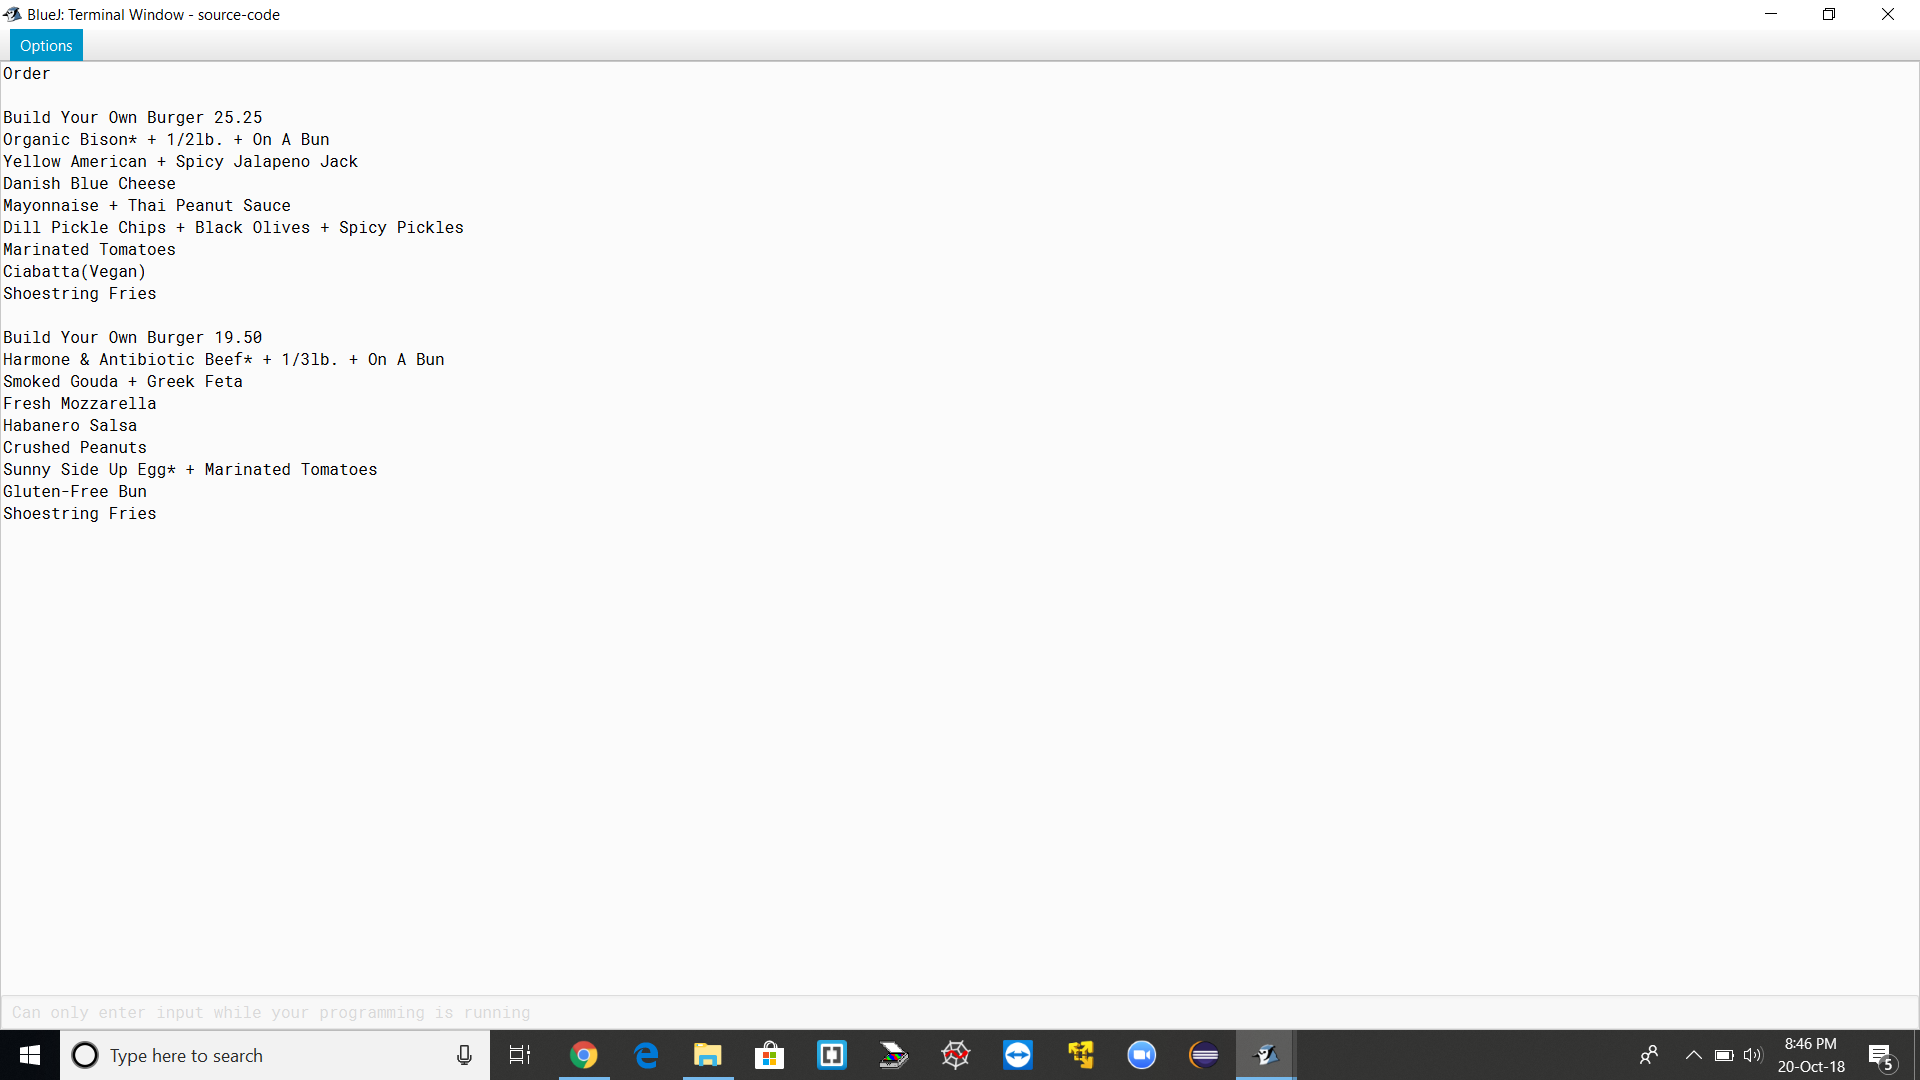
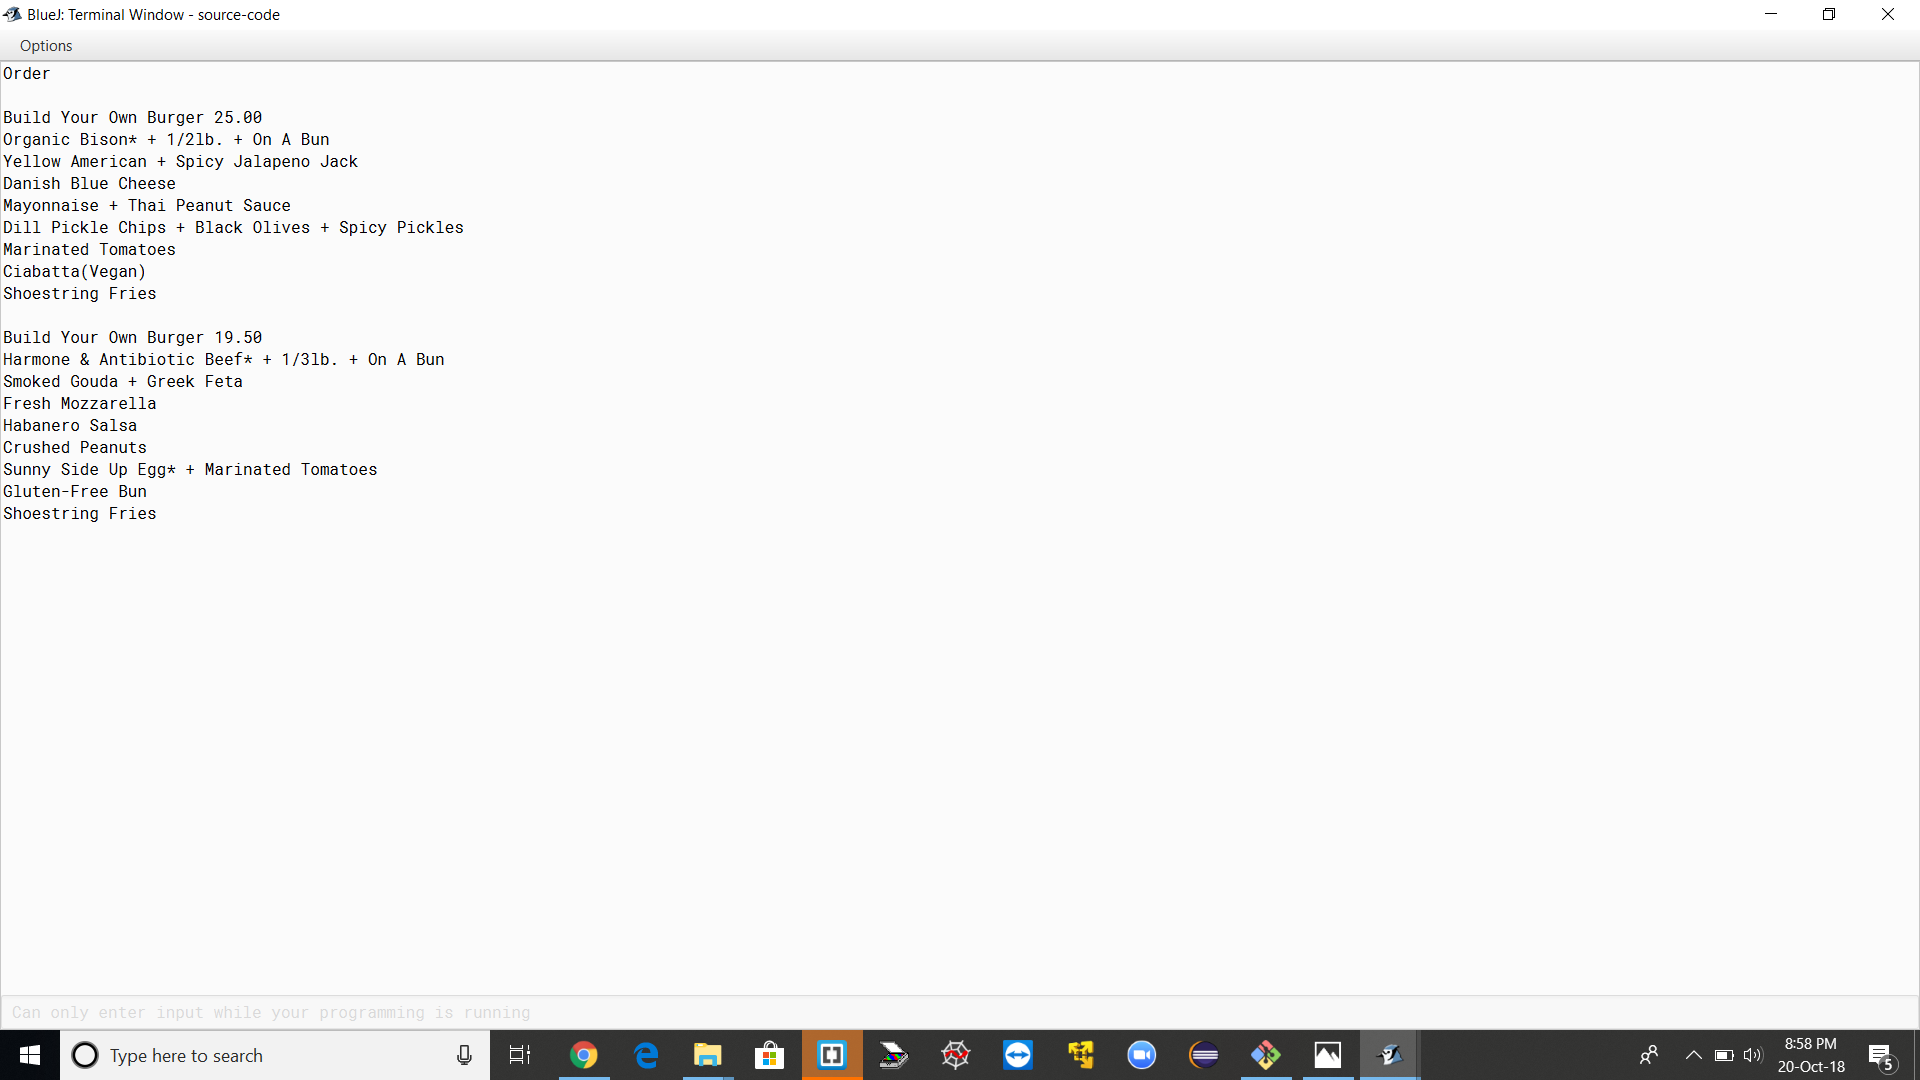
sauce price updated and new output added

Changed region(s): [[0.625, 0.9472, 0.75, 1.0], [0.4062, 0.9472, 0.4688, 1.0], [0.0, 0.0, 0.0625, 0.0611]]

diff --git a/lab7/counter-burger/source-code/Sauce.java b/lab7/counter-burger/source-code/Sauce.java
@@ -8,12 +8,12 @@ public class Sauce extends LeafDecorator
         super(d) ;
     }
     
-    // 1 sauce free, extra +.75
+    // 1 sauce free, extra +.5
     public void setOptions( String[] options )
     {
         this.options = options ;
         if ( options.length > 1 )
-            this.price += (options.length-1) * 0.75 ;
+            this.price += (options.length-1) * 0.5 ;
     }
     
     public String getDescription() 
